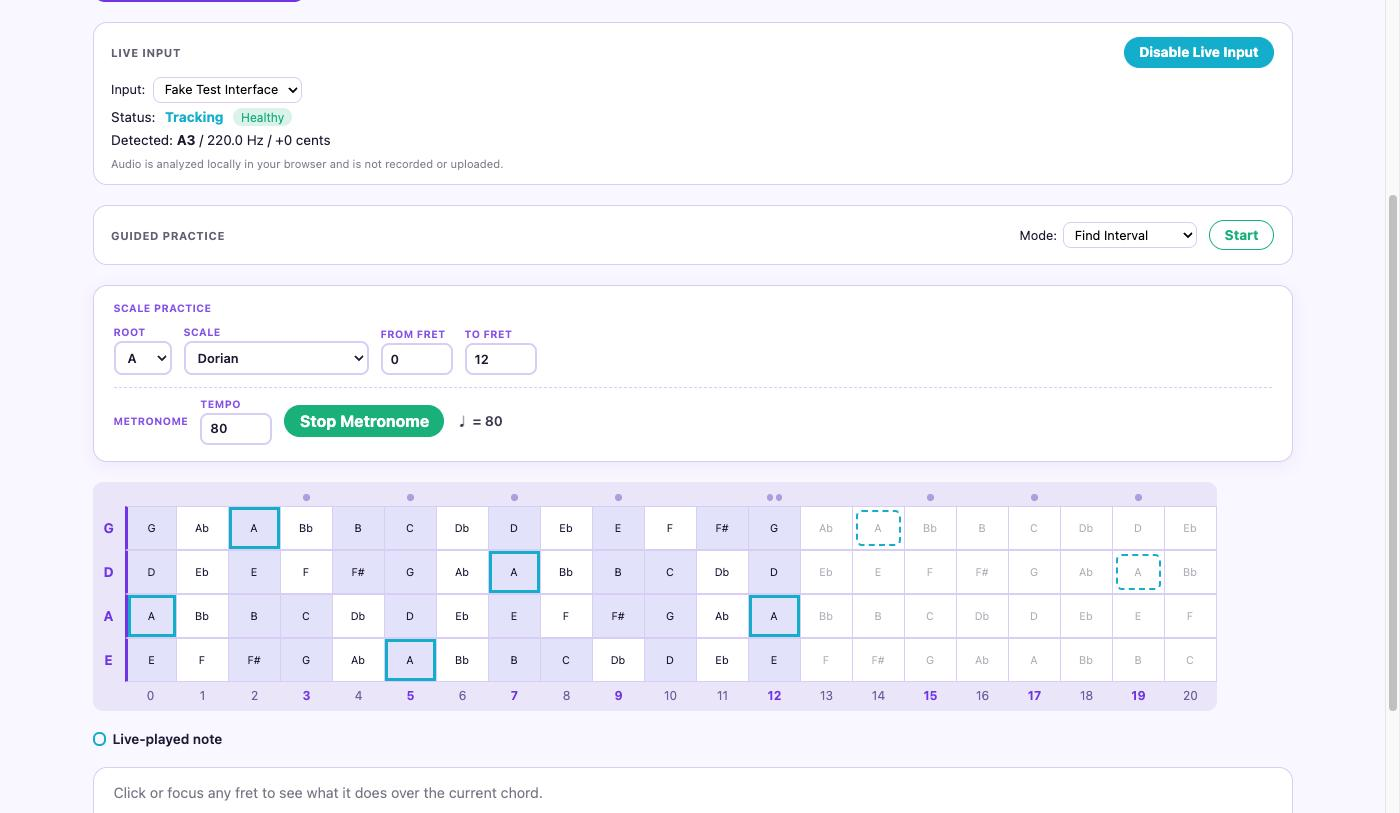
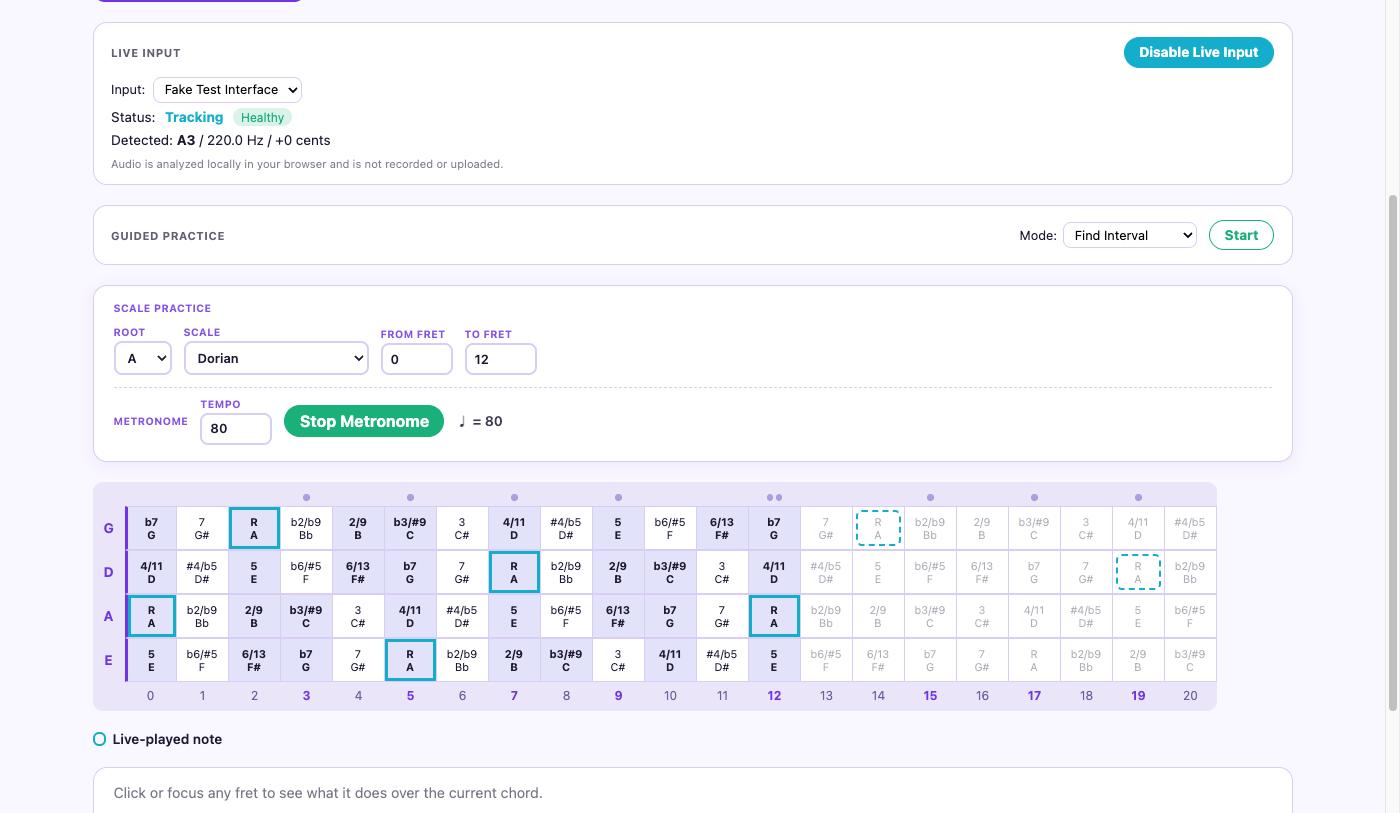
Add interval labels and bold scale-membership to Scale Practice
Every fret now shows its interval relative to the chosen root
alongside its note name (root labeled "R", not "1" — the app's usual
convention elsewhere), and notes belonging to the configured scale
render in bold, giving scale membership a second, non-color-dependent
signal per AGENTS.md.

diff --git a/src/lib/components/FretCell.svelte b/src/lib/components/FretCell.svelte
@@ -5,6 +5,11 @@
 		type DisplayMode
 	} from '$lib/stores/fretfield.svelte';
 	import { roleStyleFor } from '$lib/config/roles';
+	import {
+		intervalCompoundLabel,
+		intervalFromRoot,
+		noteNameForPosition
+	} from '$lib/music/intervals';
 	import { practice } from '$lib/stores/practice.svelte';
 	import { scalePractice } from '$lib/stores/scale-practice.svelte';
 
@@ -61,8 +66,37 @@
 		isScalePracticeMode &&
 			(position.fret < scalePractice.zone.minFret || position.fret > scalePractice.zone.maxFret)
 	);
+	// Scale Practice has exactly one root (unlike Scale Blocks' several), so
+	// "interval relative to root" is well-defined here — computed locally
+	// against `scalePractice.root`, never `fretfield.root`, same
+	// independent-state reasoning as the layers above. Always shown
+	// alongside the note name (not gated on the shared Intervals/Notes/Both
+	// toggle) per the specific request: the interval should read in
+	// addition to the note name, not instead of it.
+	const scalePracticeInterval = $derived(
+		isScalePracticeMode && scalePractice.root !== null
+			? intervalFromRoot(scalePractice.root, position.pitchClass)
+			: null
+	);
+	const scalePracticeNoteName = $derived(
+		isScalePracticeMode && scalePractice.root !== null
+			? noteNameForPosition(scalePractice.root, position.pitchClass)
+			: null
+	);
+	// "R" for the root specifically (not "1") — the one deviation from the
+	// app's usual numeric-interval convention, per explicit request.
+	const scalePracticeIntervalLabel = $derived(
+		scalePracticeInterval === null
+			? null
+			: scalePracticeInterval === '1'
+				? 'R'
+				: intervalCompoundLabel(scalePracticeInterval)
+	);
 
 	const label = $derived.by(() => {
+		if (scalePracticeIntervalLabel !== null && scalePracticeNoteName !== null) {
+			return `${scalePracticeIntervalLabel}\n${scalePracticeNoteName}`;
+		}
 		if (position.interval === null) return position.noteName;
 		if (displayMode === 'notes') return position.noteName;
 		if (displayMode === 'both') return `${position.intervalLabel}\n${position.noteName}`;
@@ -70,8 +104,16 @@
 	});
 
 	const ariaLabel = $derived.by(() => {
-		const parts = [`${stringName} string`, `fret ${position.fret}`, position.noteName];
-		if (position.interval !== null) parts.push(`interval ${position.intervalLabel}`);
+		const parts = [
+			`${stringName} string`,
+			`fret ${position.fret}`,
+			scalePracticeNoteName ?? position.noteName
+		];
+		if (scalePracticeIntervalLabel !== null) {
+			parts.push(`interval ${scalePracticeIntervalLabel}`);
+		} else if (position.interval !== null) {
+			parts.push(`interval ${position.intervalLabel}`);
+		}
 		if (roleStyle !== null) parts.push(roleStyle.label.toLowerCase());
 		if (position.pathRole === 'current') parts.push('current path step');
 		else if (position.pathRole === 'previous') parts.push('previous path step');
@@ -496,6 +538,11 @@
 
 	.fret-cell.scale-practice-note:hover {
 		background: color-mix(in srgb, var(--scale-practice-note, #6366f1) 24%, var(--fret-bg, #fff));
+	}
+
+	/* Bold is a second, non-color signal for scale membership (AGENTS.md §7) — the tint alone shouldn't have to carry it. */
+	.fret-cell.scale-practice-note .label {
+		font-weight: 700;
 	}
 
 	/*

diff --git a/e2e/scale-practice.e2e.ts b/e2e/scale-practice.e2e.ts
@@ -83,6 +83,43 @@ test.describe('Scale Practice', () => {
 		await expect(page.getByTestId('fret-A-3')).toHaveClass(/scale-practice-note/);
 	});
 
+	test('every fret shows its interval relative to the chosen root alongside the note name', async ({
+		page
+	}) => {
+		await page.goto('/');
+		await selectScalePractice(page, 'C', 'Major Pentatonic');
+
+		// The root itself is labeled "R", not "1" — the app's usual convention elsewhere.
+		await expect(page.getByTestId('fret-A-3').locator('.label')).toHaveText('R\nC');
+		// The 2nd degree, in the scale.
+		await expect(page.getByTestId('fret-D-0').locator('.label')).toHaveText('2/9\nD');
+		// Bb (b7) is not in C major pentatonic, but its interval still shows —
+		// every fret is labeled, not just the ones in the scale.
+		await expect(page.getByTestId('fret-A-1').locator('.label')).toHaveText('b7\nBb');
+	});
+
+	test('every note of the scale is shown in bold, distinguishing it from chromatic notes', async ({
+		page
+	}) => {
+		await page.goto('/');
+		await selectScalePractice(page, 'C', 'Major Pentatonic');
+
+		// C is in the scale.
+		await expect(page.getByTestId('fret-A-3')).toHaveClass(/scale-practice-note/);
+		const inScaleWeight = await page
+			.getByTestId('fret-A-3')
+			.locator('.label')
+			.evaluate((el) => getComputedStyle(el).fontWeight);
+		// Bb is not in the scale.
+		await expect(page.getByTestId('fret-A-1')).not.toHaveClass(/scale-practice-note/);
+		const outOfScaleWeight = await page
+			.getByTestId('fret-A-1')
+			.locator('.label')
+			.evaluate((el) => getComputedStyle(el).fontWeight);
+
+		expect(Number(inScaleWeight)).toBeGreaterThan(Number(outOfScaleWeight));
+	});
+
 	test('a zone that excludes every note of the scale shows a hint instead of highlighting nothing silently', async ({
 		page
 	}) => {

diff --git a/README.md b/README.md
@@ -10,14 +10,14 @@
 
 FretField is an interactive bass-fretboard application that teaches the neck as a spatial field of harmonic possibilities — not a grid of shapes to memorize. Click any fret to set a root, and it answers six increasingly powerful questions:
 
-|                            |                                            |                                                                                                                                                                                                                |
-| -------------------------- | ------------------------------------------ | -------------------------------------------------------------------------------------------------------------------------------------------------------------------------------------------------------------- |
-| 🎯 **Chord Field**         | _What can I play now?_                     | The full 12-tone Harmonic Field over the current chord — root, structural, stable, extension, color, tension, alteration, chromatic-approach, avoid — or a simplified Chord Tones view for quick reference.    |
-| ➡ **Progression Field**   | _Where can I go next?_                     | Resolve a progression template (ii–V–I, I–vi–ii–V, 12-bar blues, …) from the selected root and see each note's best resolution into the next chord, derived from interval math — not a hardcoded lookup table. |
-| 🧭 **Voice-Leading Paths** | _What route should I take?_                | A ranked list of complete fretted paths through the whole progression, scored by harmonic quality, physical movement, and position continuity, with Balanced / Minimal Movement / Guide Tones presets.         |
-| 📍 **Local Fields**        | _Where on the neck should I play it?_      | Ranked, overlapping regions of the neck — not fixed CAGED-style boxes — usable as a lens under any of the other three modes.                                                                                   |
-| 🧩 **Scale Blocks**        | _What scales fit across this progression?_ | Build up to 8 independent chord "blocks" — each its own root, quality, and scale — and see all of them at once: every fret numbered/colored by which block's scale it belongs to, overlaps included.           |
-| 🥁 **Scale Practice**      | _Can you play this scale in time?_         | Pick a root, a scale, and a fret zone: every note of that scale lights up at once, whatever you actually play is highlighted live, and an independent metronome (adjustable BPM) keeps time alongside it.      |
+|                            |                                            |                                                                                                                                                                                                                                         |
+| -------------------------- | ------------------------------------------ | --------------------------------------------------------------------------------------------------------------------------------------------------------------------------------------------------------------------------------------- |
+| 🎯 **Chord Field**         | _What can I play now?_                     | The full 12-tone Harmonic Field over the current chord — root, structural, stable, extension, color, tension, alteration, chromatic-approach, avoid — or a simplified Chord Tones view for quick reference.                             |
+| ➡ **Progression Field**   | _Where can I go next?_                     | Resolve a progression template (ii–V–I, I–vi–ii–V, 12-bar blues, …) from the selected root and see each note's best resolution into the next chord, derived from interval math — not a hardcoded lookup table.                          |
+| 🧭 **Voice-Leading Paths** | _What route should I take?_                | A ranked list of complete fretted paths through the whole progression, scored by harmonic quality, physical movement, and position continuity, with Balanced / Minimal Movement / Guide Tones presets.                                  |
+| 📍 **Local Fields**        | _Where on the neck should I play it?_      | Ranked, overlapping regions of the neck — not fixed CAGED-style boxes — usable as a lens under any of the other three modes.                                                                                                            |
+| 🧩 **Scale Blocks**        | _What scales fit across this progression?_ | Build up to 8 independent chord "blocks" — each its own root, quality, and scale — and see all of them at once: every fret numbered/colored by which block's scale it belongs to, overlaps included.                                    |
+| 🥁 **Scale Practice**      | _Can you play this scale in time?_         | Pick a root, a scale, and a fret zone: every fret shows its interval plus note name relative to that root, the scale's own notes light up, whatever you play is highlighted live, and an independent metronome keeps time alongside it. |
 
 **Live Input** is an optional layer over all six modes, not a `FieldMode` itself: play your bass through a USB audio interface or mic and FretField reacts to what you actually play. It detects the pitch and highlights every fret that physically produces it everywhere, including Scale Blocks and Scale Practice; the deeper explanation — Chord Field's role, Progression Field's resolution into the next chord, or a Voice-Leading Path's expected next note — is available for those three modes specifically. Off by default; audio is analyzed locally in your browser and never recorded or uploaded.
 
@@ -71,7 +71,7 @@ FretField is an interactive bass-fretboard application that teaches the neck as 
 
 **Scale Blocks** — up to 8 chords' scales overlaid at once, with shared notes called out
 
-<img src="./docs/screenshots/scale-blocks.jpg" alt="Scale Blocks showing two configured chord blocks, C Major Ionian and F# Diminished Locrian, with every fret numbered and colored by which block's scale it belongs to, and the five notes common to both scales filled in a shared accent color and listed in the legend">
+<img src="./docs/screenshots/scale-blocks.jpg" alt="Scale Blocks showing six configured chord blocks in six distinct colors, with fret chips wrapping onto a second row where several blocks' scales overlap, and the note common to every block filled in a shared accent color and listed in the legend">
 
 </td>
 <td width="50%">
@@ -94,7 +94,7 @@ FretField is an interactive bass-fretboard application that teaches the neck as 
 
 **Scale Practice** — the whole scale highlighted, plus a free-standing metronome
 
-<img src="./docs/screenshots/scale-practice.jpg" alt="Scale Practice showing A Dorian highlighted across frets 0-12 with frets outside the zone dimmed, a live-played note ringed on top of the scale tint, and a separate Metronome panel below with its own Start/Stop button">
+<img src="./docs/screenshots/scale-practice.jpg" alt="Scale Practice showing A Dorian across frets 0-12, every fret labeled with its interval (R for the root) and note name relative to A, scale notes shown in bold, frets outside the zone dimmed, a live-played root note ringed on top of the scale tint, and a separate Metronome panel below with its own Start/Stop button">
 
 </td>
 </tr>

diff --git a/BLUEPRINT.md b/BLUEPRINT.md
@@ -12,7 +12,7 @@ Progression Field      "Where can I go next?"           — resolve a progressio
 Voice-Leading Paths    "What route should I take?"      — ranked, complete fretted paths through the whole progression
 Local Fields           "Where on the neck should I play it?" — ranked, overlapping neck regions, usable as a lens under any of the above
 Scale Blocks           "What scales fit across this progression?" — up to 8 independently-configured chords, each with its own scale, overlaid on the neck at once
-Scale Practice          "Can you play this scale in time?" — a metronome drives a sequence of target notes through a chosen scale/key/fret zone, with on-beat feedback
+Scale Practice          "Can you play this scale in time?" — every note of a chosen scale/key/fret zone is highlighted at once, whatever's played is highlighted live, and a free-standing metronome keeps time alongside it
 ```
 
 Root selection, display mode, and progression selection persist across mode switches — switching tabs changes the lens, not the underlying harmonic selection. `?root=&mode=&chord=&display=&analysis=&progression=&chordIndex=&pathPreset=&region=` in the URL reproduces the same view (§7 Phase 7 originally scoped a narrower version of this; the shipped version covers all four original modes — Scale Blocks' `chordBlocks` and Scale Practice's session state are both deliberately session-only, see §20/§21).
@@ -763,6 +763,8 @@ the chosen BPM — it has no effect on what's highlighted either way
 **The metronome** (`start()`/`stop()`) is a self-correcting `setTimeout` loop that only does one thing: play a click via `$lib/audio/metronome.ts` (the app's first audio _output_, not analysis — a short synthesized tick via a dedicated `AudioContext`, entirely separate from Live Input's capture context) and reschedule from the fixed beat grid so drift doesn't accumulate over a long session. It carries no target, no evaluation, no per-beat state. Starting it happens inside the "Start Metronome" button's click handler, the same user-gesture requirement Live Input's `getUserMedia` call already lives under.
 
 **Fretboard rendering:** frets outside the chosen zone are dimmed (same treatment as Local Fields' `region-dimmed`, but independent state — not `fretfield.activeRegion`). Every in-scale, in-zone fret gets a soft, permanent background tint. Whatever's currently played gets its own ring on top — the two compose (tint + ring for an in-scale note actually played; ring alone for a note played outside the scale, deliberately not treated as "wrong" per AGENTS.md §22's no-wrong-note framing).
+
+**Every fret's label** shows its interval relative to `scalePractice.root` stacked above the note name (e.g. "R / A", "b3 / C") — computed locally in `FretCell.svelte` via `intervalFromRoot`/`noteNameForPosition` against `scalePractice.root`, not `fretfield.root` (Scale Practice has exactly one root, unlike Scale Blocks' several, so this is well-defined here in a way it isn't there). The root is labeled **"R"**, the mode's one deliberate deviation from the numeric "1" every other mode uses for root — everywhere else in the app "1" is the convention (§3.1); here it isn't, by explicit request. Shown for _every_ fret, not just ones in the configured scale — a chromatic passing tone still reads its own honest interval; scale membership itself is signaled twice, not once: the background tint described above _and_ the label rendering bold, so the distinction survives even if color is hard to perceive (AGENTS.md §7's non-color-signal rule). Always both interval and note name together, deliberately not gated behind the shared Intervals/Notes/Both toggle other modes expose.
 
 **The UI** (`ScalePracticeControls.svelte`) visually separates the root/scale/zone fields (which drive the highlight, and take effect immediately) from a distinct "Metronome" sub-panel below a divider (BPM + Start/Stop) — the separation itself is the point: nothing about Start/Stop should read as gating the highlight.
 
